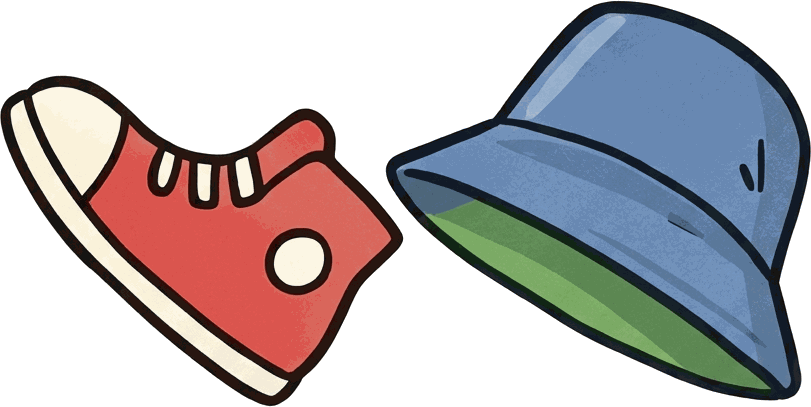
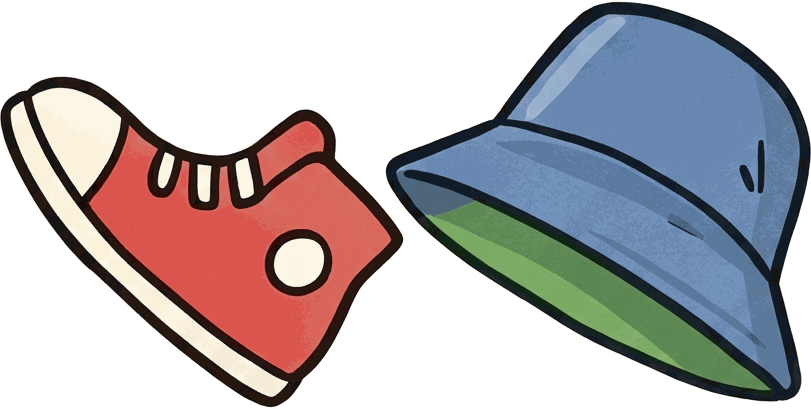
School stage: rectangular library, picture books, slips in order, solid hat
The library is a long room now: window and entrance are its short
walls, Science+Music and Art+Stories are two-view long walls that pan.
Shelf close-ups show generated book spines with the titles along them.
A book only gives up its slip once the previous riddle points at it.
The shoe and hat are re-cut so the hat's highlights stay. Playbook
gains the room-shape, sequencing and close-up-art rules.

Claude-Session: https://claude.ai/code/session_01EfdGHqbt9UMLzVmVXYp5s9

diff --git a/next/landscape/index.html b/next/landscape/index.html
@@ -95,12 +95,23 @@ button{font:inherit;color:inherit;cursor:pointer}
 #walls{position:absolute;inset:0}
 .scene.fade #walls,.scene.fade #hots{opacity:0}
 #walls,#hots{transition:opacity .35s ease, filter .3s ease}
+.scene.pan-l #walls,.scene.pan-l #hots{animation:panOutL .24s ease-in forwards}
+.scene.pan-r #walls,.scene.pan-r #hots{animation:panOutR .24s ease-in forwards}
+.scene.pan-in-l #walls,.scene.pan-in-l #hots{animation:panInL .38s ease-out}
+.scene.pan-in-r #walls,.scene.pan-in-r #hots{animation:panInR .38s ease-out}
+@keyframes panOutL{to{transform:translateX(-18%);opacity:0}}
+@keyframes panOutR{to{transform:translateX(18%);opacity:0}}
+@keyframes panInL{from{transform:translateX(18%);opacity:0}}
+@keyframes panInR{from{transform:translateX(-18%);opacity:0}}
+@media (prefers-reduced-motion:reduce){.scene.pan-l #walls,.scene.pan-l #hots,.scene.pan-r #walls,.scene.pan-r #hots,.scene.pan-in-l #walls,.scene.pan-in-l #hots,.scene.pan-in-r #walls,.scene.pan-in-r #hots{animation-duration:.01s}}
 /* a shelf of books, and a locker with three dials */
 .card.shelf{width:calc(var(--u)*72);display:flex;flex-direction:column;gap:calc(var(--u)*1.2);align-items:stretch}
 .card .otitle{margin:0;font-family:Caprasimo,Georgia,serif;font-size:calc(var(--u)*2.8);color:#2f7c83;text-align:center}
-.books{display:flex;gap:calc(var(--u)*1);justify-content:center;align-items:flex-end;flex-wrap:wrap;padding:calc(var(--u)*1) 0 0;border-bottom:calc(var(--u)*.9) solid #a8744a}
-.book{flex:1 1 0;min-width:calc(var(--u)*9);max-width:calc(var(--u)*13);min-height:calc(var(--u)*17);border:0;border-radius:calc(var(--u)*.6) calc(var(--u)*.6) 0 0;background:var(--sp,#3b78b8);color:#fffaf0;font:inherit;font-weight:700;font-size:calc(var(--u)*1.8);line-height:1.15;padding:calc(var(--u)*1) calc(var(--u)*.8);box-shadow:inset calc(var(--u)*-.5) 0 0 rgba(0,0,0,.18);cursor:pointer;text-wrap:balance}
-.book.gap{background:#f7e9a8;color:#5b4a2e;font-family:Caveat,cursive;font-weight:500;font-size:calc(var(--u)*2);min-height:calc(var(--u)*12);align-self:flex-end;box-shadow:none;border-radius:calc(var(--u)*.4)}
+.books{display:flex;gap:calc(var(--u)*.6);justify-content:center;align-items:flex-end;padding:calc(var(--u)*1) calc(var(--u)*2) 0;border-bottom:calc(var(--u)*1.4) solid #c99a5b;box-shadow:0 calc(var(--u)*1.4) 0 #a8744a}
+.book{position:relative;width:calc(var(--u)*8.5);height:calc(var(--u)*26);border:0;padding:0;background:url(../art/school/book-blue.png) center bottom / 100% auto no-repeat;background-color:transparent;cursor:pointer;display:grid;place-items:center}
+.book span{writing-mode:vertical-rl;color:#fffaf0;font:inherit;font-weight:700;font-size:calc(var(--u)*1.75);line-height:1;letter-spacing:.02em;text-shadow:0 1px 2px rgba(0,0,0,.45);max-height:calc(var(--u)*22);overflow:hidden;padding-top:calc(var(--u)*1.5)}
+.book.gap{width:calc(var(--u)*11);height:calc(var(--u)*11);align-self:center;background:url(../art/school/layer-sticky.png) center / contain no-repeat;display:grid;place-items:center}
+.book.gap span{writing-mode:horizontal-tb;color:#5b4a2e;font-family:Caveat,cursive;font-weight:500;font-size:calc(var(--u)*1.9);text-shadow:none;transform:rotate(-4deg);padding:0 calc(var(--u)*1.2);line-height:1.1;text-align:center}
 .book:focus-visible{outline:calc(var(--u)*.4) solid var(--accent)}
 .ofb{margin:0;min-height:calc(var(--u)*2.6);font-size:calc(var(--u)*2);text-align:center;color:var(--ink)}
 .spell{margin:0;text-align:center;font-family:Caprasimo,Georgia,serif;font-size:calc(var(--u)*3.6);letter-spacing:.25em;color:#6d4fb8;min-height:calc(var(--u)*4)}
@@ -188,7 +199,7 @@ button{font:inherit;color:inherit;cursor:pointer}
 
 <script>
 'use strict';
-const BUILD = '2026-09-28r';
+const BUILD = '2026-09-28s';
 const $ = id => document.getElementById(id);
 
 /* ---------- sizing: the scene fills the screen in landscape, inventory strip under it ---------- */
@@ -203,7 +214,8 @@ addEventListener('resize', fit); fit();
 const ROOMS = {
   classroom:{name:'Classroom 5H', into:'your classroom', views:['c1','c2','c3','c4']},
   corridor:{name:'Corridor', into:'the corridor', views:['h1','h2','h3','h4']},
-  library:{name:'Library', into:'the library', views:['l1','l2','l3','l4','l5','l6']}
+  /* a long room: the window and the entrance are its short walls; each long wall is two views you step along */
+  library:{name:'Library', into:'the library', views:['l3','l4','l5','l6','l2','l1'], long:[['l4','l5'],['l2','l1']]}
 };
 const WALLS = {
   c1:'../art/classroom/landscape-c1-front-whiteboard.jpg', c2:'../art/classroom/landscape-c2-window.jpg', c3:'../art/classroom/landscape-c3-door.jpg', c4:'../art/classroom/landscape-c4-timetable-desk.jpg',
@@ -211,7 +223,7 @@ const WALLS = {
   l1:'../art/school/l1.jpg', l2:'../art/school/l2.jpg', l3:'../art/school/l3.jpg', l4:'../art/school/l4.jpg', l5:'../art/school/l5.jpg', l6:'../art/school/l6.jpg'
 };
 /* door hotspot -> [room, index of the view you arrive facing (away from the door you came through)] */
-const DOORS = {door:['corridor', 1], h_door5H:['classroom', 0], h_libdoors:['library', 2], l_doors:['corridor', 3]};
+const DOORS = {door:['corridor', 1], h_door5H:['classroom', 0], h_libdoors:['library', 0], l_doors:['corridor', 3]};
 /* The corridor and library open only when their art is in, or with ?rooms in the address for testing. */
 const OPEN_DOORS = true;
 const HOTS = {
@@ -260,27 +272,29 @@ const HOTS = {
     {id:'h_bunting', l:25, t:13, w:50, h:20, label:'Bunting', sound:'leaf', anim:'swing', layer:'bunting'}],
   /* library */
   l1:[
-    {id:'l_shelfSci', l:14, t:30, w:36, h:54, label:'Science shelf', sound:'paper'},
-    {id:'l_globe', l:51.5, t:50, w:10, h:17, label:'Globe', sound:'tap', anim:'wobble', layer:'globe'},
-    {id:'l_rocks', l:68, t:56, w:17, h:10, label:'Rock collection', sound:'knock'}],
+    {id:'l_shelfSci', l:46, t:33, w:22, h:57, label:'Science shelf', sound:'paper'},
+    {id:'l_globe', l:68, t:54, w:10, h:17, label:'Globe', sound:'tap', anim:'wobble', layer:'globe'},
+    {id:'l_rocks', l:80, t:66, w:13, h:8, label:'Rock collection', sound:'knock'},
+    {id:'l_cabinet', l:68, t:69, w:27, h:22, label:'Cabinet', sound:'knock'}],
   l2:[
-    {id:'l_shelfMus', l:13, t:31, w:21, h:56, label:'Music shelf', sound:'paper'},
-    {id:'l_headphones', l:48, t:78, w:10, h:12, label:'Headphones', sound:'tap', anim:'wobble', layer:'headphones'},
-    {id:'l_beanbag', l:72, t:62, w:20, h:30, label:'Beanbag', sound:'knock'}],
+    {id:'l_shelfMus', l:14, t:27, w:25, h:60, label:'Music shelf', sound:'paper'},
+    {id:'l_headphones', l:35, t:78, w:9, h:11, label:'Headphones', sound:'tap', anim:'wobble', layer:'headphones'},
+    {id:'l_table', l:42, t:68, w:17, h:20, label:'Table with the CD player', sound:'tap'},
+    {id:'l_beanbag', l:60, t:59, w:22, h:33, label:'Beanbag', sound:'knock'}],
   l3:[
     {id:'l_window', l:33, t:20, w:33, h:43, label:'Library window', sound:'tap'},
     {id:'l_cushions', l:32, t:54, w:16, h:13, label:'Cushions on the window seat', sound:'leaf', anim:'plump', layer:'cushions'},
     {id:'l_seat', l:29, t:64, w:42, h:20, label:'Window seat', sound:'knock'},
     {id:'l_rug', l:15, t:86, w:66, h:13, label:'Rug', sound:'leaf'}],
   l4:[
-    {id:'l_shelfArt', l:13, t:30, w:21, h:58, label:'Art shelf', sound:'paper'},
-    {id:'l_trolley', l:43, t:62, w:15, h:27, label:'Returns trolley', sound:'knock', anim:'roll', layer:'trolley'},
-    {id:'l_notice', l:70, t:31, w:15, h:27, label:'Notice about the trolley', sound:'paper'}],
+    {id:'l_shelfArt', l:7.5, t:27, w:23, h:63, label:'Art shelf', sound:'paper'},
+    {id:'l_trolley', l:49, t:62, w:15, h:27, label:'Returns trolley', sound:'knock', anim:'roll', layer:'trolley'},
+    {id:'l_notice', l:33.5, t:35, w:12.5, h:21, label:'Notice about the trolley', sound:'paper'}],
   l5:[
-    {id:'l_shelfSto', l:22, t:32, w:22, h:51, label:'Stories shelf', sound:'paper'},
-    {id:'l_knit', l:61.5, t:64, w:7, h:11, label:'Knitted hamster on the chair', sound:'squeak', anim:'wobble', layer:'knit'},
-    {id:'l_chair', l:55, t:52, w:23, h:36, label:'Storytime chair', sound:'knock'},
-    {id:'l_rug2', l:42, t:82, w:36, h:12, label:'Reading rug', sound:'leaf'}],
+    {id:'l_shelfSto', l:0, t:26, w:31.5, h:60, label:'Stories shelf', sound:'paper'},
+    {id:'l_knit', l:76.5, t:63.5, w:7, h:11, label:'Knitted hamster on the chair', sound:'squeak', anim:'wobble', layer:'knit'},
+    {id:'l_chair', l:69, t:52, w:23, h:37, label:'Storytime chair', sound:'knock'},
+    {id:'l_rug2', l:58, t:84, w:38, h:12, label:'Reading rug', sound:'leaf'}],
   l6:[
     {id:'l_doors', l:15.5, t:21, w:29, h:60, label:'Doors to the corridor', sound:'knock'},
     {id:'l_bell', l:64.5, t:54, w:7.5, h:9, label:'Desk bell', sound:'tick', anim:'ding', layer:'bell'},
@@ -306,7 +320,7 @@ const LAYERS = {
     {src:'../art/classroom/layer-plant4-pot.png', l:59.3, t:57.70, w:7.7, h:8.80, shadow:.5}],
   c3:[
     {src:'../art/classroom/layer-coat.png', group:'coat', l:59.9, t:50.4, w:10.8, h:24.2, lit:.9},
-    {src:'../art/classroom/layer-lost.png', group:'lost', l:78.2, t:77.4, w:9.2, h:8.2, lit:.7},
+    {src:'../art/classroom/layer-lost.png', group:'lost', l:78.2, t:77.4, w:9.2, h:8.2},
     /* the front of the box, cut from the wall picture itself, drawn over the things inside it */
     {src:'../art/classroom/layer-boxfront.png', l:77.50, t:80.83, w:11.77, h:14.81},
     {src:'../art/classroom/layer-lid.png', group:'lid', l:27.6, t:67.3, w:10, h:10.3}],
@@ -325,11 +339,12 @@ const LAYERS = {
   h3:[{src:'../art/school/layer-bonuscard.png', group:'bonuscard', l:60.4, t:50.2, w:6.4, h:8.6, lit:.6}],
   h4:[{src:'../art/school/layer-bunting.png', group:'bunting', l:25, t:14, w:50, h:19.9}],
   /* library */
-  l1:[{src:'../art/school/layer-globe.png', group:'globe', l:53, t:51, w:6.5, h:14.5, shadow:.6}],
-  l2:[{src:'../art/school/layer-headphones.png', group:'headphones', l:49.5, t:81, w:7, h:8.3, shadow:.5}],
+  l1:[{src:'../art/school/layer-globe.png', group:'globe', l:70, t:56, w:6.5, h:14.5, shadow:.6}],
+  l2:[{src:'../art/school/layer-headphones.png', group:'headphones', l:36, t:80, w:7, h:8.3, shadow:.5},
+      {src:'../art/school/layer-sticky.png', l:27.3, t:45.5, w:3.2, h:5.8}],
   l3:[{src:'../art/school/layer-cushions.png', group:'cushions', l:33, t:56, w:14, h:10.6, shadow:.5}],
-  l4:[{src:'../art/school/layer-trolley.png', group:'trolley', l:44, t:64, w:13, h:24, shadow:.7, lit:.5}],
-  l5:[{src:'../art/school/layer-knithamster.png', group:'knit', l:63, t:66, w:3.5, h:8.6, shadow:.5}],
+  l4:[{src:'../art/school/layer-trolley.png', group:'trolley', l:50, t:64, w:13, h:24, shadow:.7, lit:.5}],
+  l5:[{src:'../art/school/layer-knithamster.png', group:'knit', l:78, t:65.5, w:3.5, h:8.6, shadow:.5}],
   l6:[{src:'../art/school/layer-bell.png', group:'bell', l:66, t:56.5, w:4, h:5.8, shadow:.6}]
 };
 /* every picture is loaded once, up front, so cut-outs never appear late */
@@ -514,24 +529,24 @@ const NOTES = {
   bonus:{hand:false, html:'<span class="head">Bonus riddle for super-sleuths</span><span>Someone in London loves postcards and moths. Spell her name with the first letters of four stories.</span>'},
 };
 const SHELVES = {
-  sci:{title:'Science shelf', color:'#3b78b8', books:[
+  sci:{title:'Science shelf', colours:['blue','teal','green','purple'], books:[
     ['Volcanoes!','Hot, rocky and a bit loud. No slip inside.'],
     ['The Night Sky','slipSc'],
     ['Bugs Up Close','Very close. Too close! No slip inside.'],
     ['Weather Watch','All about rain. Singapore has plenty. No slip inside.']]},
-  mus:{title:'Music shelf', color:'#7a5cc2', books:[
+  mus:{title:'Music shelf', colours:['purple','pink','yellow'], books:[
     ['Drums for Beginners','Boom, boom, tish! No slip inside.'],
     ['Songs of the Sea','Sailors’ songs. No slip inside.'],
     ['gap','A gap on the shelf, with a sticky note: “Returned today. See the trolley.”']]},
-  art:{title:'Art shelf', color:'#d0602f', books:[
+  art:{title:'Art shelf', colours:['orange','red','yellow'], books:[
     ['Clay Creatures','Squishy animals to make. No slip inside.'],
     ['The Big Book of Painting','slipAr'],
     ['Paper Folding','How to fold paper birds, boats and moths. No slip inside.']]},
-  trolley:{title:'Returns trolley', color:'#5b6f7a', books:[
+  trolley:{title:'Returns trolley', colours:['green','blue','red'], books:[
     ['Dinosaur Days','Roar! No slip inside.'],
     ['Playing the Piano','slipMu'],
     ['Football Stars','No slip inside.']]},
-  sto:{title:'Stories shelf', color:'#3a8f5c', books:[
+  sto:{title:'Stories shelf', colours:['green','teal','blue','purple','orange','yellow'], books:[
     ['Nobody’s Garden','A secret garden story.'],
     ['Jam for Tea','A story about a greedy bear.'],
     ['A Quiet Moon','A bedtime story.'],
@@ -626,7 +641,17 @@ function sparkle(id){
   if (id === 'h_locker') return S.got.includes('slipAr') && !S.done;
   return false;
 }
-function turn(d){ if (!$('closeup').hidden) return; const n = ROOMS[S.room].views.length; S.view = (S.view + d + n) % n; say(''); sfx('turn'); render(); }
+function turn(d){
+  if (!$('closeup').hidden) return;
+  const room = ROOMS[S.room], n = room.views.length, from = room.views[S.view], to = room.views[(S.view + d + n) % n];
+  const along = (room.long || []).some(pair => pair.includes(from) && pair.includes(to));
+  if (along){ /* stepping along a long wall: the picture pans rather than turns */
+    const scene = $('scene'); scene.classList.add(d > 0 ? 'pan-l' : 'pan-r');
+    setTimeout(() => { S.view = (S.view + d + n) % n; say(''); render(); scene.classList.remove('pan-l', 'pan-r'); scene.classList.add(d > 0 ? 'pan-in-l' : 'pan-in-r'); setTimeout(() => scene.classList.remove('pan-in-l', 'pan-in-r'), 400); }, 230);
+    sfx('turn'); return;
+  }
+  S.view = (S.view + d + n) % n; say(''); sfx('turn'); render();
+}
 /* walking through a door: the scene dips out, the new room's pictures are made sure of, and we arrive facing away from the door */
 function go(room, view, from){
   const scene = $('scene'); sfx('turn');
@@ -698,8 +723,8 @@ function openShelf(key){
   shelfKey = key;
   const sh = SHELVES[key], spelling = key === 'sto' && S.bonus && !S.nightMoth;
   const books = sh.books.map(([title], i) => title === 'gap'
-    ? `<button class="book gap" data-i="${i}">Returned today. See the trolley.</button>`
-    : `<button class="book" style="--sp:${sh.color}" data-i="${i}">${title}</button>`).join('');
+    ? `<button class="book gap" data-i="${i}"><span>Returned today. See the trolley.</span></button>`
+    : `<button class="book" style="background-image:url(../art/school/book-${sh.colours[i % sh.colours.length]}.png?v=${BUILD})" data-i="${i}"><span>${title}</span></button>`).join('');
   openCloseup(`<div class="card shelf"><p class="otitle">${sh.title}</p><div class="books" id="books">${books}</div>${spelling ? `<p class="spell" id="spell">${S.spell || '· · · ·'}</p>` : ''}<p class="ofb" id="shelfFb">${spelling ? 'Tap four stories in order to spell a name.' : 'Tap a book to open it.'}</p>${spelling ? '<div class="row"><button class="ob quiet" id="spellReset">Start the spelling again</button></div>' : ''}</div>`);
   $('books').querySelectorAll('.book').forEach(b => b.onclick = () => pickBook(+b.dataset.i));
   const r = $('spellReset'); if (r) r.onclick = () => { S.spell = ''; $('spell').textContent = '· · · ·'; $('shelfFb').textContent = 'Tap four stories in order to spell a name.'; save(); };
@@ -718,6 +743,8 @@ function pickBook(i){
   }
   if (ITEMS[what]){
     if (S.got.includes(what)){ fb.textContent = 'You already have the slip from this one.'; return; }
+    const needs = {slipMu:'slipSc', slipAr:'slipMu'}[what];
+    if (needs && !S.got.includes(needs)){ fb.textContent = `${title}. A good book, but no riddle has pointed here yet.`; say('Mary flicks through it and puts it back. One riddle at a time.'); return; }
     S.got.push(what); sfx('pickup'); fb.textContent = `A slip falls out of ${title}!`;
     setTimeout(() => { render(); openNote(what); }, 500); say(`A slip from ${title}. It goes in the strip below.`);
     return;
@@ -795,6 +822,8 @@ function act(id){
     case 'l_rocks': say('The rock collection. Nine shiny rocks and one that Mary suspects is a toffee.'); break;
     case 'l_headphones': say('The listening corner. Story time is on Fridays, but today is the last day, so no story.'); break;
     case 'l_beanbag': say('The squashiest beanbag in the school. Not now, Mary.'); break;
+    case 'l_table': say('The CD player for story time. Nothing in it.'); break;
+    case 'l_cabinet': say('Cupboards of old worksheets. Nobody has opened them since Easter.'); break;
     case 'l_window': say('Trees, sunshine and a butterfly on the glass. Only a few hours until the holidays.'); break;
     case 'l_seat': say('The window seat, with the squashiest cushions in the school.'); break;
     case 'l_rug': case 'l_rug2': say('A rug. Good for lying on with a book.'); break;

diff --git a/CLAUDE.md b/CLAUDE.md
@@ -35,9 +35,9 @@ The owner is a non-technical but AI-savvy builder working from a Chromebook. Exp
 - `icon-192.png`, `icon-512.png` — moth icon (also used as maskable).
 - `next/index.html` — the children's version being built, not yet what players get. It opens on the choose-a-child screen (with the fiction notice under "About this game"). All nine Part 1 stages are playable: Mary, Elliot and Zaina each have last day of school, packing day and the flight. The engine is in this file, with Mary's school and packing stages; the rest live in `next/stages/`. Each stage is one object (for example `STAGE_SCHOOL`, or the `stage` passed to `registerStage`) with its `rooms` (each room's views in turning order), `doors` (door → room and view you arrive at), `start`, `items`, `uses`, `fresh` state, `draw`, `act`, `hints`, `hinter`, optional `hintStyle:'point'` (for Zaina: the moth turns to the target, pulses it and says one short line) and `ending`; the engine handles turning, doors, the inventory, hints and endings. `STORYLINES` lists each child's three stages; saves are per child in localStorage (`mothhouse.next.v1`). Each view is a `<g class="view" id="v-…">` in the one SVG; hotspot `data-id`s must be unique across all stages (school ones start with `s_`, Elliot's `e_`, Zaina's `z_`, the flight's `fl_`). A hotspot with `data-stage="…"` only shows in that stage, which is how the shared flat and cabin carry different children's things. Close-ups are overlays inside `.stage`. Keep hotspots away from the bottom corners, where the turn arrows sit. It doesn't register the service worker. When the owner approves it, it replaces the live game.
 - `next/stages/mary-flight.js`, `elliot.js`, `zaina.js` — stage plugins: `registerStage(key, {css, views, closeups, boxes, stage, setup})`. The engine injects `views` into the SVG, `closeups` before `#endUI`, merges `boxes` into `BOXES`, then runs `setup()` after the bookcases are drawn (use it to add hotspots to shared views).
-- `next/landscape/index.html` — the landscape engine, first test room: Mary's classroom drawn as the generated pictures in `next/art/classroom/`. A 16:9 scene, small turn arrows halfway up each side, the inventory as ten slots under the scene, close-ups brought forward over the blurred room, a "turn your phone" screen in portrait. Tap targets are picture percentages in `HOTS`; `sound` names the tap effect and `anim` + `layer` name a movement and the cut-out group it moves. Moving things are cut-outs in `LAYERS` (per view: `layer-*.png`, placed in picture percentages, drawn on a canvas each; the wall pictures have them removed). The animator (`drawLayer`) bends, swings, lifts, hops, wobbles or pops a cut-out in slices for a moment. Sounds are made in the browser with Web Audio and start after the first tap; music plays the `TRACK` mp3 (Lyria), with the composed music-box waltz (`TUNE`) as fallback; both switch off from the menu. A layer's `shadow` draws a soft contact shadow under it (anything standing on a surface gets one, so nothing floats); `glass` clips it inside a box and draws the wall's glass faintly over it (Nutmeg in his cage). The timetable on the wall is drawn by `wallTimetable()` from the real grid, so wall and close-up always agree. Every picture is preloaded before the room opens. Cut-out boxes must keep the picture's own proportions (h = w × pictureH/pictureW × 16/9) or the cut-out is squashed. Inventory icons are pictures in `next/art/classroom/item-*.png` (generated on white, background keyed out). Rooms are in `ROOMS` (views in turning order), walls in `WALLS`, doors in `DOORS` (door hotspot → room and the view you arrive facing, away from the door). All three rooms of Mary's school stage are built: classroom, corridor (lockers, library doors, notice board, classroom doors) and library (Science, Music, window, Art, Stories, entrance), with the shelf, trolley, locker and note close-ups, the bonus riddle, and the last-bell ending. `play.js` in the session scratchpad played the whole puzzle by script; keep a script like it for every stage. Saves are keyed by build (`mothhouse.landscape.<BUILD>`).
+- `next/landscape/index.html` — the landscape engine, first test room: Mary's classroom drawn as the generated pictures in `next/art/classroom/`. A 16:9 scene, small turn arrows halfway up each side, the inventory as ten slots under the scene, close-ups brought forward over the blurred room, a "turn your phone" screen in portrait. Tap targets are picture percentages in `HOTS`; `sound` names the tap effect and `anim` + `layer` name a movement and the cut-out group it moves. Moving things are cut-outs in `LAYERS` (per view: `layer-*.png`, placed in picture percentages, drawn on a canvas each; the wall pictures have them removed). The animator (`drawLayer`) bends, swings, lifts, hops, wobbles or pops a cut-out in slices for a moment. Sounds are made in the browser with Web Audio and start after the first tap; music plays the `TRACK` mp3 (Lyria), with the composed music-box waltz (`TUNE`) as fallback; both switch off from the menu. A layer's `shadow` draws a soft contact shadow under it (anything standing on a surface gets one, so nothing floats); `glass` clips it inside a box and draws the wall's glass faintly over it (Nutmeg in his cage). The timetable on the wall is drawn by `wallTimetable()` from the real grid, so wall and close-up always agree. Every picture is preloaded before the room opens. Cut-out boxes must keep the picture's own proportions (h = w × pictureH/pictureW × 16/9) or the cut-out is squashed. Inventory icons are pictures in `next/art/classroom/item-*.png` (generated on white, background keyed out). Rooms are in `ROOMS` (views in turning order; a long room lists its `long` pairs, two views of one wall that pan instead of turn), walls in `WALLS`, doors in `DOORS` (door hotspot → room and the view you arrive facing, away from the door). All three rooms of Mary's school stage are built: classroom, corridor (lockers, library doors, notice board, classroom doors) and library (Science, Music, window, Art, Stories, entrance), with the shelf, trolley, locker and note close-ups, the bonus riddle, and the last-bell ending. `play.js` in the session scratchpad played the whole puzzle by script; keep a script like it for every stage. Saves are keyed by build (`mothhouse.landscape.<BUILD>`).
 - `next/art/music/classroom.mp3` — background music made with Google's Lyria through the Gemini key (see the README there). The engine's `TRACK` points at it; the built-in composed tune is the fallback.
-- `next/art/school/` — the corridor and library walls (`h1`–`h4`, `l1`–`l6`), their cut-outs (`layer-*.png`) and the three slip icons. Mary's locker door is cut from the wall's own lockers and recoloured purple. Prompts in `next/art/classroom/PROMPTS.md`.
+- `next/art/school/` — the corridor and library walls (`h1`–`h4`, `l1`–`l6`; `l1`/`l2` and `l4`/`l5` are halves of the library's two long walls), their cut-outs (`layer-*.png`), the eight book spines (`book-*.png`) used in shelf close-ups, and the three slip icons. Mary's locker door is cut from the wall's own lockers and recoloured purple. Prompts in `next/art/classroom/PROMPTS.md`.
 - `next/art/classroom/` — the four walls of Mary's classroom as generated pictures (Gemini image model, `gemini-3-pro-image`, 28 Sept 2026): the `landscape-` files follow the owner's brief (16:9, clean and sparse); the earlier portrait ones are kept for comparison. Prompts in `PROMPTS.md`. The key is in the environment as `GEMINI_API_KEY`; the script that made them is described there. Not wired into the game.
 - `STORY.md` — the story plan: characters, places, every scene with its puzzle map, rules for every chapter, open decisions.
 - `.well-known/assetlinks.json`, `.nojekyll` — Android app verification (see Launch status).

diff --git a/next/PLAYBOOK.md b/next/PLAYBOOK.md
@@ -43,6 +43,13 @@ The working rules for every room in the landscape game, distilled from the owner
 - Under reduce-motion, tap feedback still plays, shorter and gentler; only ambient motion (the sparkle) stops.
 - Tap animations must never be skipped silently on the owner's device: the tablet reports reduce-motion, and the early version showed nothing at all.
 
+## 4a. Rooms are boxes with four sides, or rectangles
+
+- A room has four walls. A square room is four views. A long room has two short walls and two long walls, and each long wall is two views that continue into each other: the first half shows one corner and runs off the far edge, the second half shows the other corner. Stepping between the two halves pans the picture sideways; turning a corner fades. Never draw six closed boxes and call it a room: it reads as a hexagon.
+- Prompt the halves as "the LEFT half of one long wall: the left side wall visible, the back wall and floor running straight off the right edge with no corner" and the mirror for the right half. Declare the room's `long` pairs in `ROOMS` so the engine pans.
+- Clues arrive in order. A book (or drawer, or box) that holds the next clue gives it up only once the previous clue has pointed at it; before that it is just a book, with a friendly line. Reading "that's all three" while missing one feels like cheating. Parallel streams are fine when the story says so; a chain is a chain.
+- Things inside close-ups (books on a shelf, dials, cards) are pictures to the same standard as the walls, never flat coloured buttons. Titles are drawn by the game along the spines so the words stay exact.
+
 ## 4b. No empty walls
 
 - Every wall must earn its place in the critical path or the bonus path: a clue, an item, a hint-giver, a door, or a piece of the puzzle's information. A wall that is only atmosphere is wasted time; the owner's yardstick is that in the games he loves everything feels connected. Before generating a wall, write down what it contributes.
@@ -79,3 +86,4 @@ The working rules for every room in the landscape game, distilled from the owner
 10. Item sounds fine, no music. → retry on real taps.
 11. Tap outside to close; no scrolling in close-ups; box crisper than the blurred room; no sunlight on the coat. → all fixed in build o.
 12. (Full stage test) No build number for a child; no empty walls (the whiteboard had no value); bin lid looked transparent (the sunlight overlay); doors should show intent; water squirt unrealistic; plain notices should be in-page lines, not pop-ups. → build r: debug-only diagnostics, the timetable key moved onto the whiteboard, lid overlay removed, door lean-in, drawn water arc, in-page lines for notices, rules and the card.
+13. Shelf books were flat buttons, a mismatch with the art; the Art slip could be taken before the Music one ("That's all three" while missing one); the hat looked transparent; the library felt six-sided. → build s: generated book spines with titles along them, slips in strict order, hat re-cut with a true-white key and no sunlight overlay, the library rebuilt as a rectangle with two-view long walls that pan.
